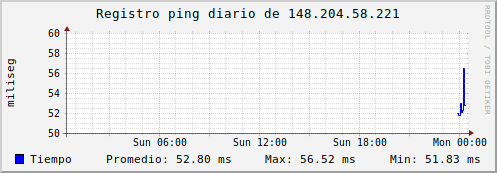
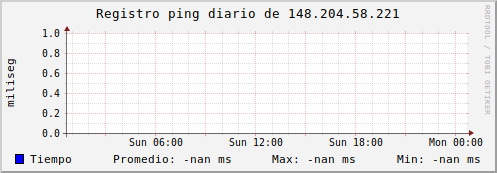
Ahora si

diff --git a/ping-poller/ping-poller.py b/ping-poller/ping-poller.py
@@ -29,7 +29,7 @@ def crear_base():
                                   "RRA:MIN:0.5:60:24",
                                   "RRA:MAX:0.5:60:24",
                                   "RRA:AVERAGE:0.5:1:60",
-                                  "RRA:AVERAGE:0.5:1:1440")
+                                  "RRA:AVERAGE:0.5:10:144")
 
 
 def actualizacion():
